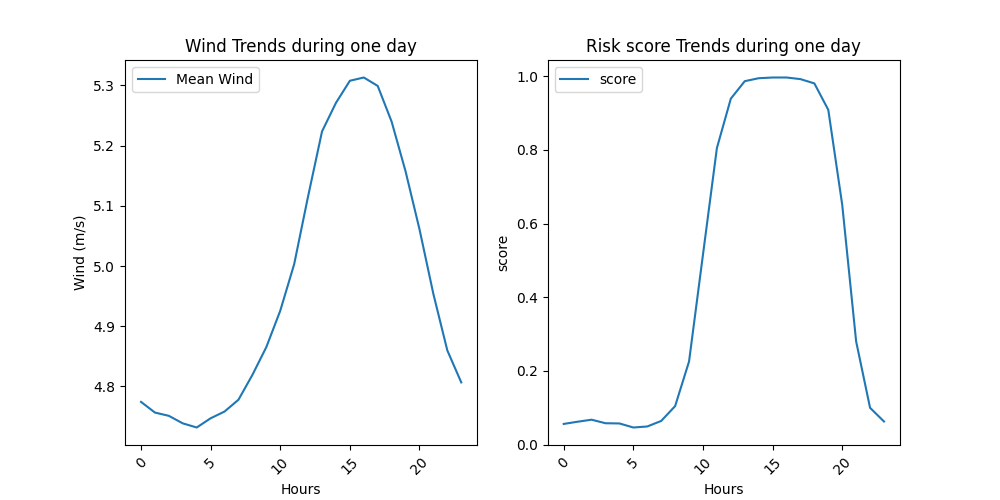
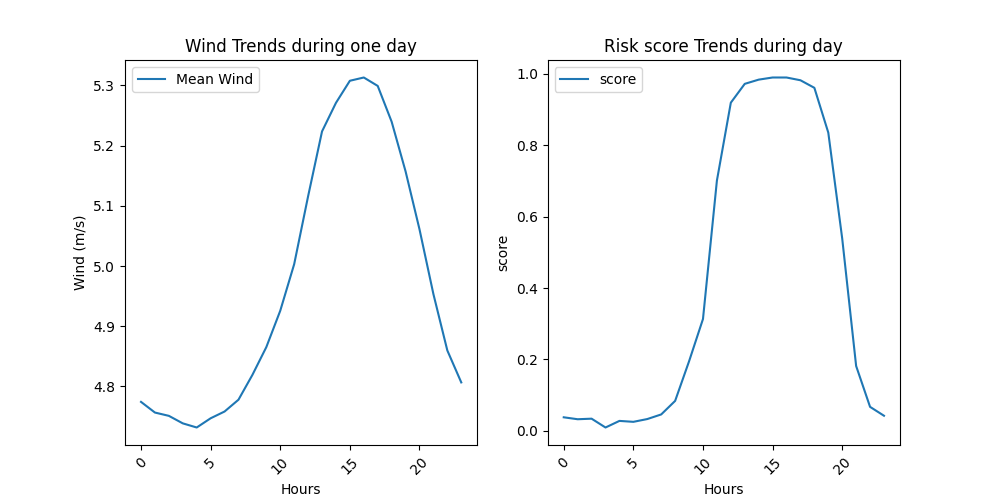
even more plots

diff --git a/main.py b/main.py
@@ -327,7 +327,7 @@ nx.draw_networkx_edge_labels(G, pos, edge_labels=labels_round)
 plt.tight_layout()
 #nx.draw_networkx_edge_labels(G,pos,edge_labels=labels,connectionstyle="arc3")
 plt.savefig("plots_and_fiqures/network.png")
-plt.show()
+#plt.show()
 
 #-----------------Task 9-----------------------------------
 
@@ -351,7 +351,6 @@ connect_comp = nx.connected_components(G)
 #print(avg_clust)
 #print(connect_comp)
 
-
 d = {"avg_clust":avg_clust,"number_of_con_comp":connect_comp}
 #the data is not in dataframes yet might do it but seem unnessesary
 
@@ -369,8 +368,6 @@ df_centrality = pd.DataFrame({
     "betweenness_centrality": list(bet_cent.values()),
     "closeness_centrality": list(clo_cent.values())
 })
-
-
 
 df_ranked = df_centrality.sort_values(by="betweenness_centrality", ascending=False)
 
@@ -393,6 +390,8 @@ for node in G:
         color_map.append("blue")
         
 nx.draw(G,pos, node_color=color_map, with_labels=True)
+nx.draw_networkx_edge_labels(G, pos, edge_labels=labels_round)
+plt.savefig("plots_and_fiqures/network2.png")
 plt.show()
 
 #-----------------Task 11-----------------------------------
@@ -432,6 +431,24 @@ def day_avg(key, all_wind=0):
     df["datetime"] = pd.to_datetime(df["datetime"])
 
     df["day"] = df["datetime"].dt.hour
+    
+    day_avg = df.groupby("day").mean(numeric_only=True)
+    day_std= df.groupby("day").std(numeric_only=True)
+
+    day_std = day_std.drop(day_std.columns.difference(["Wind speed [m/s]"]),axis=1)
+    day_avg = day_avg.join(day_std, rsuffix="_std")
+    
+    return day_avg
+
+def day_avg_year(key, all_wind=0):
+    if(all_wind == 0):
+        df = pd.read_csv("Parsed_wind datasets/"+key)
+    else:
+        df = df_all_wind
+
+    df["datetime"] = pd.to_datetime(df["datetime"])
+
+    df["day"] = df["datetime"].dt.day_of_year
     
     day_avg = df.groupby("day").mean(numeric_only=True)
     day_std= df.groupby("day").std(numeric_only=True)
@@ -524,7 +541,7 @@ plt.savefig("plots_and_fiqures/Risk_score_of_each_stat.png")
 #plt.show()
 
 
-y = (df_day_avgs["Maximum gust speed [m/s]"] > (df_day_avgs["Maximum gust speed [m/s]"].mean())).astype(int)
+y = (df_day_avgs["Wind speed [m/s]"] > (df_day_avgs["Wind speed [m/s]"].mean())).astype(int)
 day_cp = df_day_avgs.drop(["Maximum wind speed [m/s]"],axis=1)
 df_scaled = scale_func(day_cp)
 risk_score_df_day = risk_score_calc(df_scaled,y)
@@ -548,12 +565,54 @@ plt.subplot(1,2,2)
 plt.plot(risk_score_df_day.index, risk_score_df_day["risk_score_model"], label="score")
 
 plt.legend()
-plt.title("Risk score Trends during one day")
+plt.title("Risk score Trends during day")
 plt.xlabel("Hours")
 plt.ylabel("score")
 plt.xticks(rotation=45)
 plt.savefig("plots_and_fiqures/day_wind_vs_score.png")
+
+df_day_avgs_year = day_avg_year("location",1)
+
+y = (df_day_avgs_year["Wind speed [m/s]"] > (df_day_avgs_year["Wind speed [m/s]"].mean())).astype(int)
+day_cp = df_day_avgs_year.drop(["Maximum wind speed [m/s]"],axis=1)
+df_scaled = scale_func(day_cp)
+risk_score_df_day_year = risk_score_calc(df_scaled,y)
+
+risk_score_df_day_year["rolling_mean_5"] = (
+    risk_score_df_day_year["risk_score_model"]
+    .rolling(window=10)
+    .mean()
+    .reset_index(level=0, drop=True)
+)
+
+#print(df_day_avgs_year.info())
+plt.figure(figsize=(10,5))
+plt.subplot(1,2,1)
+plt.plot(df_day_avgs_year.index, df_day_avgs_year["Wind speed [m/s]"], label="Mean Wind")
+
+
+plt.legend()
+plt.title("Wind Trends during year")
+plt.xlabel("Hours")
+plt.ylabel("Wind (m/s)")
+plt.xticks(rotation=45)
+
 #plt.show()
+
+plt.subplot(1,2,2)
+plt.plot(risk_score_df_day_year.index, risk_score_df_day_year["rolling_mean_5"], label="score")
+
+plt.legend()
+plt.title("Risk score Trends during day")
+plt.xlabel("Hours")
+plt.ylabel("score")
+plt.xticks(rotation=45)
+plt.savefig("plots_and_fiqures/day_wind_vs_score_year.png")
+#plt.show()
+
+tulos = df_all_wind[df_all_wind["Maximum wind speed [m/s]"] > 23]
+print(tulos)
+
 
 #df_all_wind["datetime"] = pd.to_datetime(df_all_wind["datetime"])
 
